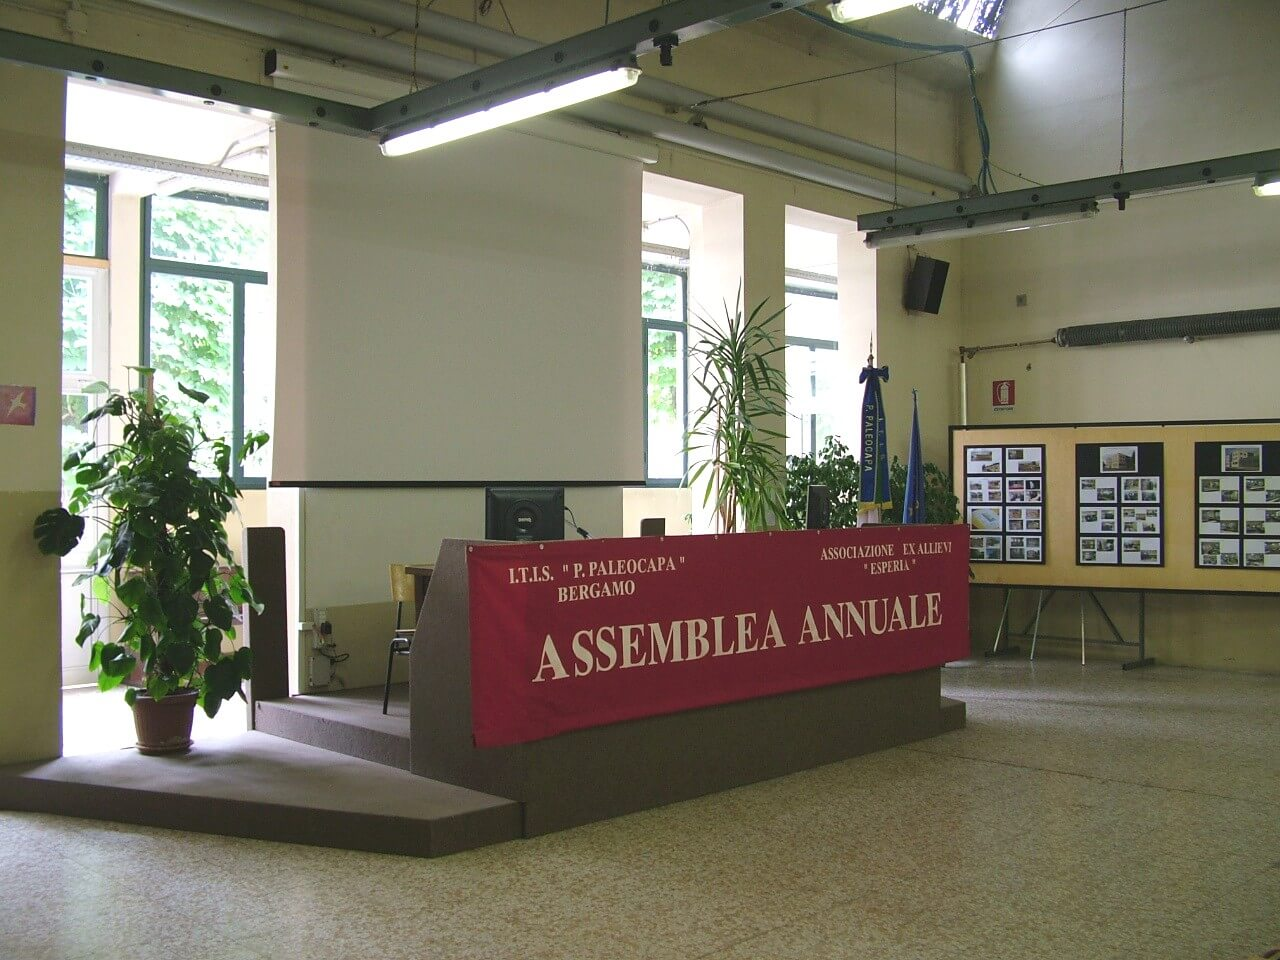
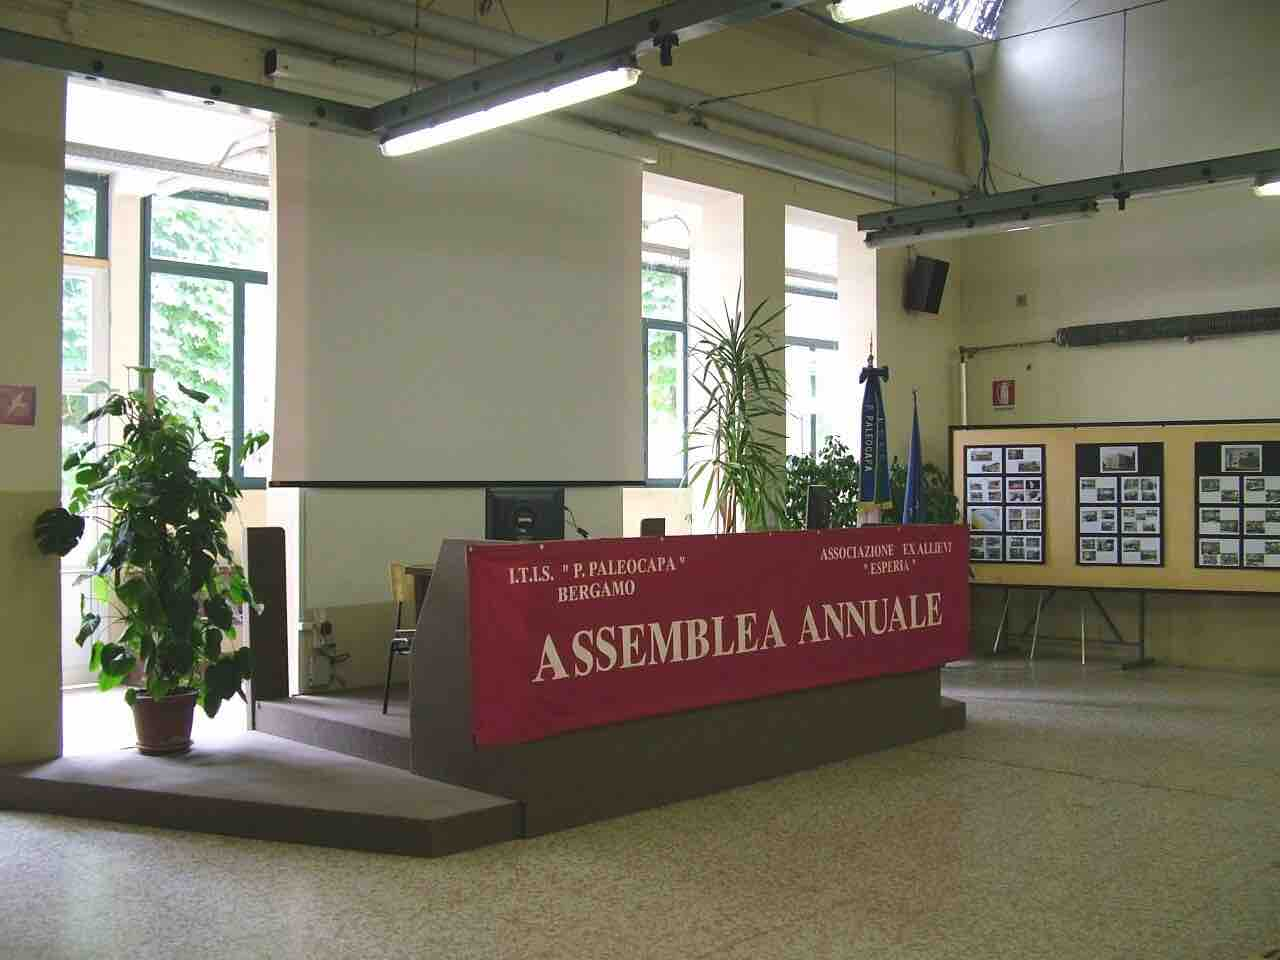
⚡ Compress image

diff --git a/pages/soci.tsx b/pages/soci.tsx
@@ -160,7 +160,7 @@ sopratutto nel settore informatico."
               label='Diplomato 2019/2020, socio dal 2022'
               description='Con l’apporto creativo che ho sempre dato all’istituto da studente, ho voluto proseguire questo sodalizio anche post diploma. 
 Grazie all’associazione mi è stato possibile realizzare ciò dandomi, inoltre, la possibilità di conoscere nuove realtà industriali presenti nel nostro territorio. '
-              image='/img/soci/mosca_marco.JPG'
+              image='/img/soci/mosca_marco.jpeg'
             />
           </Slider>
         </div>

diff --git a/pages/rivista.tsx b/pages/rivista.tsx
@@ -117,7 +117,7 @@ const riviste = [
     year: 2023,
     link: "https://drive.google.com/file/d/1RL2X4MQM5oLfo5tuJkW3tPuKspnSnQw-/view?usp=sharing",
     imgAlt: "Anteprima rivista 2023",
-    imgSrc: "/img/copertine/Copertina2023.jpg",
+    imgSrc: "/img/copertine/Copertina2023.jpeg",
   },
 ]
 

diff --git a/pages/eventi.tsx b/pages/eventi.tsx
@@ -96,7 +96,7 @@ const eventiList = [
       year: 2022,
     },
     href: "https://drive.google.com/drive/folders/1bouFlkUcG8UuzcsLNVgi6ggWFsu81XWF?usp=sharing",
-    image: "/img/eventi/informatica_19112022.jpg",
+    image: "/img/eventi/informatica_19112022.jpeg",
   },
   {
     id: 7,

diff --git a/pages/sostieni.tsx b/pages/sostieni.tsx
@@ -76,7 +76,7 @@ const SostieniPage = () => {
             </div>
 
             <Image
-              src='/img/5x1000.png'
+              src='/img/5x1000.jpg'
               alt='Immagine come donare il 5x1000'
               width={533}
               height={753}
